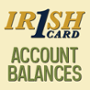
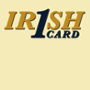
domer dollars

Changed region(s): [[0.0889, 0.5111, 0.9111, 0.9333]]

diff --git a/finances-body.html b/finances-body.html
@@ -2,12 +2,11 @@
 	<p class="subsection border-bottom">Student Accounts</p>
 	<script>
 		buildRow("accounts",
-			buildCard("domerdollars", 'images/domerDollars.png', "#", "Add Domer Dollars", "Add money to your account and use on campus.", "Allows anyone to add funds or make a deposit to an active campus ID card."),
-			buildCard("campusid", 'images/irish1card.png', "#", "Irish1 Card", "ID card for access at Notre Dame.", 'Manage your ID card. Report lost. Add money.'),
-			buildCard("meal", 'images/MealPlans.png', '#', "Campus Meal Plans", "Select your meal plan for the semester.", "Student, faculty and staff meal plans for North and South Dining Hall at Notre Dame.")
+			buildCard("campusid", 'images/irish1card.png', "#", "Irish1 Card", "ID card for campus access, add Domer Dollars and view Flex Points.", 'Manage your ID card. Report lost. Add money.'),
+			buildCard("meal", 'images/MealPlans.png', '#', "Campus Meal Plans", "Select your meal plan for the semester.", "Student, faculty and staff meal plans for North and South Dining Hall at Notre Dame."),
+			buildCard("studentaccount", "images/mystudentaccounts.png", "#", "My Student Accounts", "View your statment, 1080-T, and W-9S.", "View your statment, 1080-T, and W-9S."),
 		);
 		buildRow("accounts",
-			buildCard("studentaccount", "images/mystudentaccounts.png", "#", "My Student Accounts", "View your statment, 1080-T, and W-9S.", "View your statment, 1080-T, and W-9S."),
 			buildCard("osa", "images/StudentAccts.png", '#', "Office of Student Accounts", "View the website to get more information about your accounts.", "View more information about your accounts.")
 		);
 	</script>
